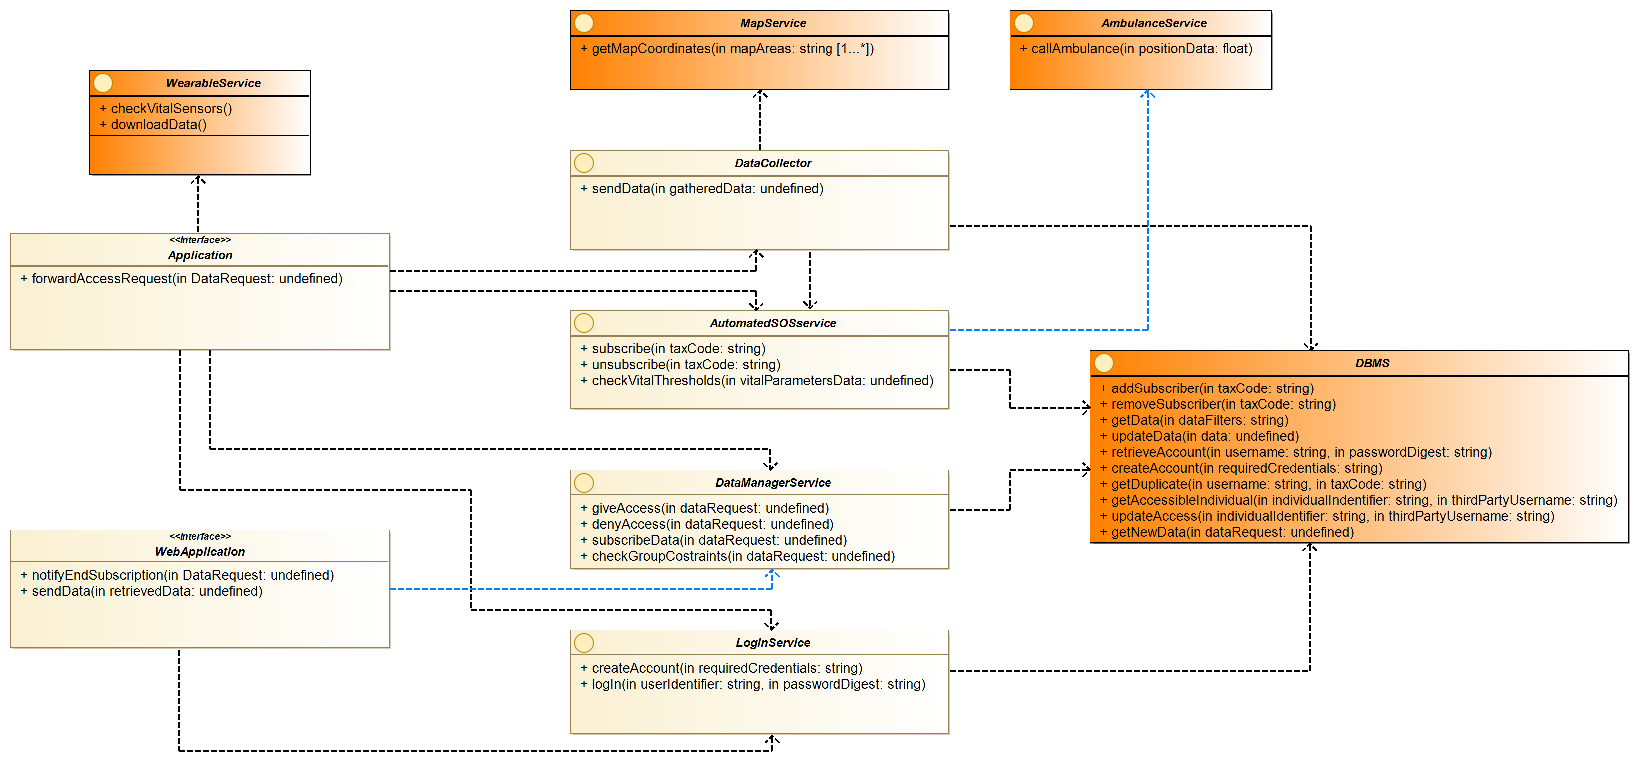
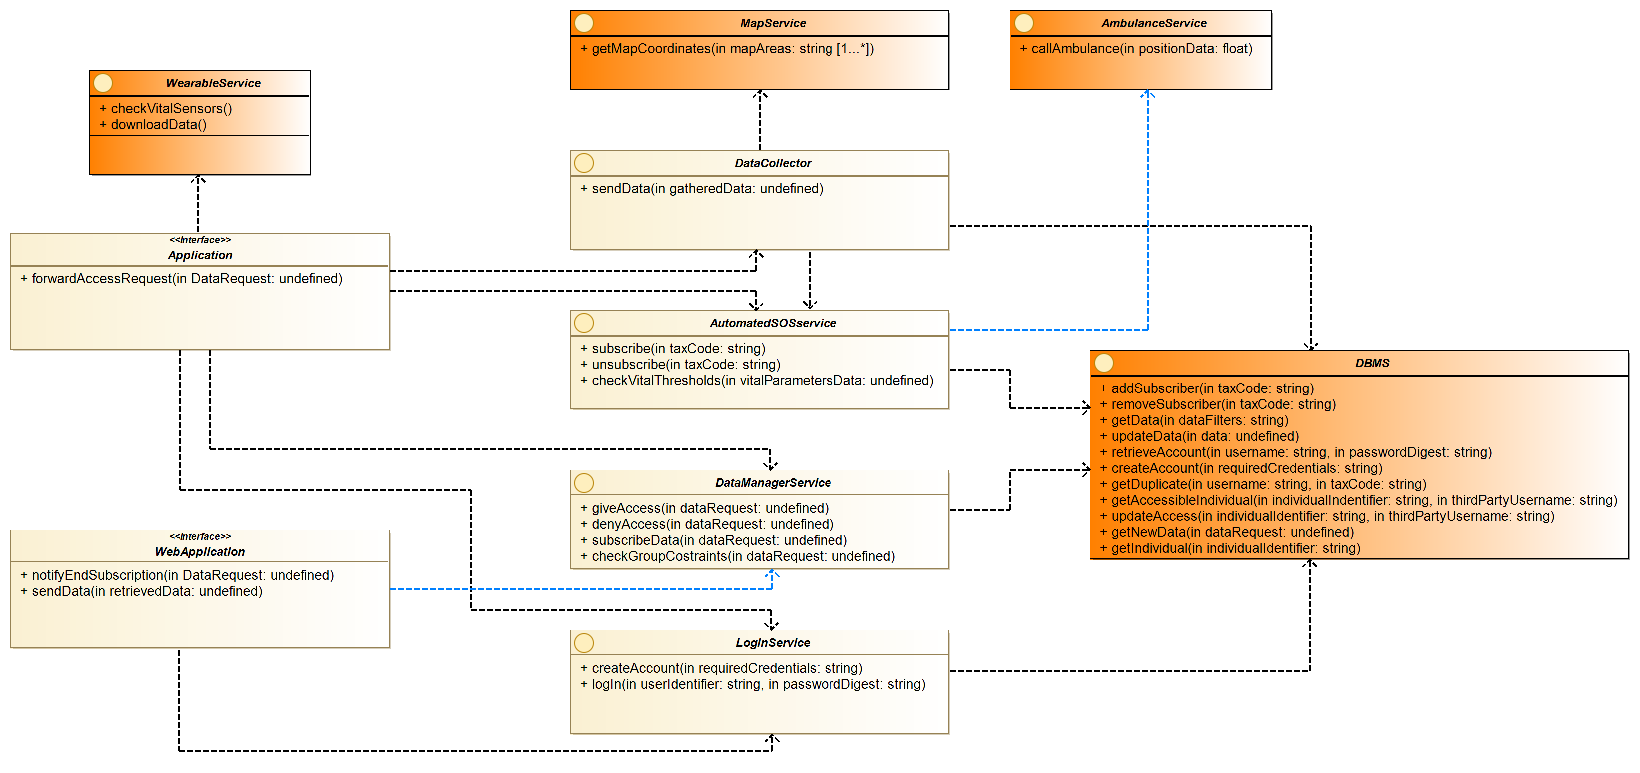
minor fixes

Changed region(s): [[0.653, 0.6831, 0.964, 0.7451]]

diff --git a/DD/ArchDesign.tex b/DD/ArchDesign.tex
@@ -153,6 +153,7 @@ Following the diagram, each operation is defined through a brief description.
 \item \textbf{updateAccess}: updates the list of all third parties that can have access to the individual data.
 \item \textbf{getAccessibleIndividual}: finds the tuple containing the given third party username and individual identifier, from the table containing all the list of the third parties and the individuals of which they have data access.
 \item \textbf{getNewData}: collects all the new data related to a data request.
+\item \textbf{getIndividual}: retrieve the given individual from the DB.
 \end{itemize}
 \end{itemize}
 Note that the operations associated to the external services are fictitious, the real names or input parameters may vary from the one listed above, but the expected functionalities must be the same, even if they are mapped on more than one real function.\\
@@ -185,8 +186,8 @@ The following diagrams shows the interactions between the interface components d
 This diagram shows the procedure activated when the user registers to Data4Help.\\
 The precondition of the registration is that the user has filled all the mandatory fields of the Sign Up form.\\
 When the user presses the register button, the content of the compiled fields is sent to the Login Manager component to create an account.\\
-Before creating the account, the LoginService checks through the DBMS services if the provided username and tax code are already present in the database.\\
-If the provided username or tax code is already taken, the procedure terminates sending an error notification to the client, otherwise the Login Manager adds the new account credentials in the database through the DBMS.\\
+Before creating the account, the LoginService checks through the DBMS services if the provided username and tax code are already present in the DB.\\
+If the provided username or tax code is already taken, the procedure terminates sending an error notification to the client, otherwise the Login Manager adds the new account credentials in the DB through the DBMS.\\
 After the account is created a notification is sent to the user and the procedure ends.
 
 
@@ -211,7 +212,7 @@ Obviously the individual must be logged in, in order to start the data upload.\\
 When the individual goes to the data visualization screen the wearable pairing, using the external wearable service, starts.\\
 If the wearable is not found the procedure terminates sending an error notification to the application.
 In the other case, once the wearable is paired, the application downloads the data gathered from the smartphone through the wearable services.\\
-The downloaded data is then sent to the server through the Data Collector, that uploads the data into the database through the DBMS.\\
+The downloaded data is then sent to the server through the Data Collector, that uploads the data into the DB through the DBMS.\\
 Once the data is uploaded, a notification is sent to the Android App which now displays the new data.
 
 \subsection{AutomatedSOS subscription}
@@ -222,11 +223,11 @@ Once the data is uploaded, a notification is sent to the Android App which now d
 This diagram illustrates the AutomatedSOS subscription procedure that is activated once the individual has paired the wearable and the subscribe button is tapped.\\
 After the subscribe button is tapped, the application checks through the wearable external interface if the wearable is capable of measuring either the blood pressure or the heart rate.\\
 In the negative case the procedure ends sending a notification to the individual.
-In the other case, the application starts the subscription by using the Automated SOS component, that updates the database, setting the individual as an AutomatedSOS subscriber. Once the individual is set as a subscriber a notification is sent to the application, notifying the start of the service.\\
+In the other case, the application starts the subscription by using the Automated SOS component, that updates the DB setting the individual as an AutomatedSOS subscriber. Once the individual is set as a subscriber a notification is sent to the application, notifying the start of the service.\\
 After the service is started, the application regurarly downloads the vital parameter data using the wearable external service, enriches it with the individual position data and sends it to the data collector.\\
 The data collector checks if the values of vital data collected have crossed the critical threshold using the Automated SOS component: if the critical threshold of a vital parameter is crossed this component calls an ambulance using the external Ambulance APIs, giving the coordinates to set the destination of the ambulance.\\
 Once the ambulance is called a notification is sent to the user application.\\
-The AutomatedSOS service is active as long as the wearable is paired: when the wearable unpairs the application starts the unsubscribe operation of the Automated SOS, which updates the database by removing the subscribption, and notify the user about the ended subscription.
+The AutomatedSOS service is active as long as the wearable is paired: when the wearable unpairs the application starts the unsubscribe operation of the Automated SOS, which updates the DB by removing the subscribption, and notify the user about the ended subscription.
 
 
 
@@ -248,10 +249,10 @@ Once the requested data is received, it checks if the privacy costraint is respe
 \end{figure}
 In this diagram the individual data request is presented.\\
 Similarly to what is done with the group data request, once the individual data request form is filled and the send button is clicked, the web application sends the request to the Data Manager component.\\
-The first thing done by the Data Manager is to retrieve the data requested in the database: if no data is present a notification error is sent to the web application.\\
+The first thing done by the Data Manager is to retrieve the individual requested from the DB: if he is not present a notification error is sent to the web application.\\
 In the other case, the Data Manager forwards the access requests to the individual application.
 The individual can choose to give the direct access of his data to the third party or deny it through the Android App: if the access request is refused the Android App notifies the Data Manager about the decision, which sends a notification to the third party.
-If the individual allows the data access, the Data Manager sends the individual's data, retrieved initially, to the Web App.
+If the individual allows the data access, the Data Manager sends the individual's data, retrieved thorugh the DBMS, to the Web App.
 
 
 \subsection{Group Data subscription}
@@ -278,7 +279,7 @@ The only difference is that the regular check of the privacy costraint is done b
 \subsection{Overall Architecture}
 Data4Help is based on a three tier architecture: almost all the system logic is executed in the server component, with the help of some external services.
 The client applications mainly focus on presenting the information delivered by the server, however some functionalities may be delegated to it, for example the wearable pairing, which is handled by the individual application in order to give a faster response.
-The data layer is handled by a single, well organized, database. This choice was made to avoid data fragmentation among different databases.
+The data layer is handled by a single, well organized, DB. This choice was made to avoid data fragmentation among different databases.
 \\
 
 Moreover, the three tier architecture allows to make changes to any of the three layer without causing to much trouble to the other components: this is a fundamental aspect for system like Data4Help that continuosly expands its functionalities.
